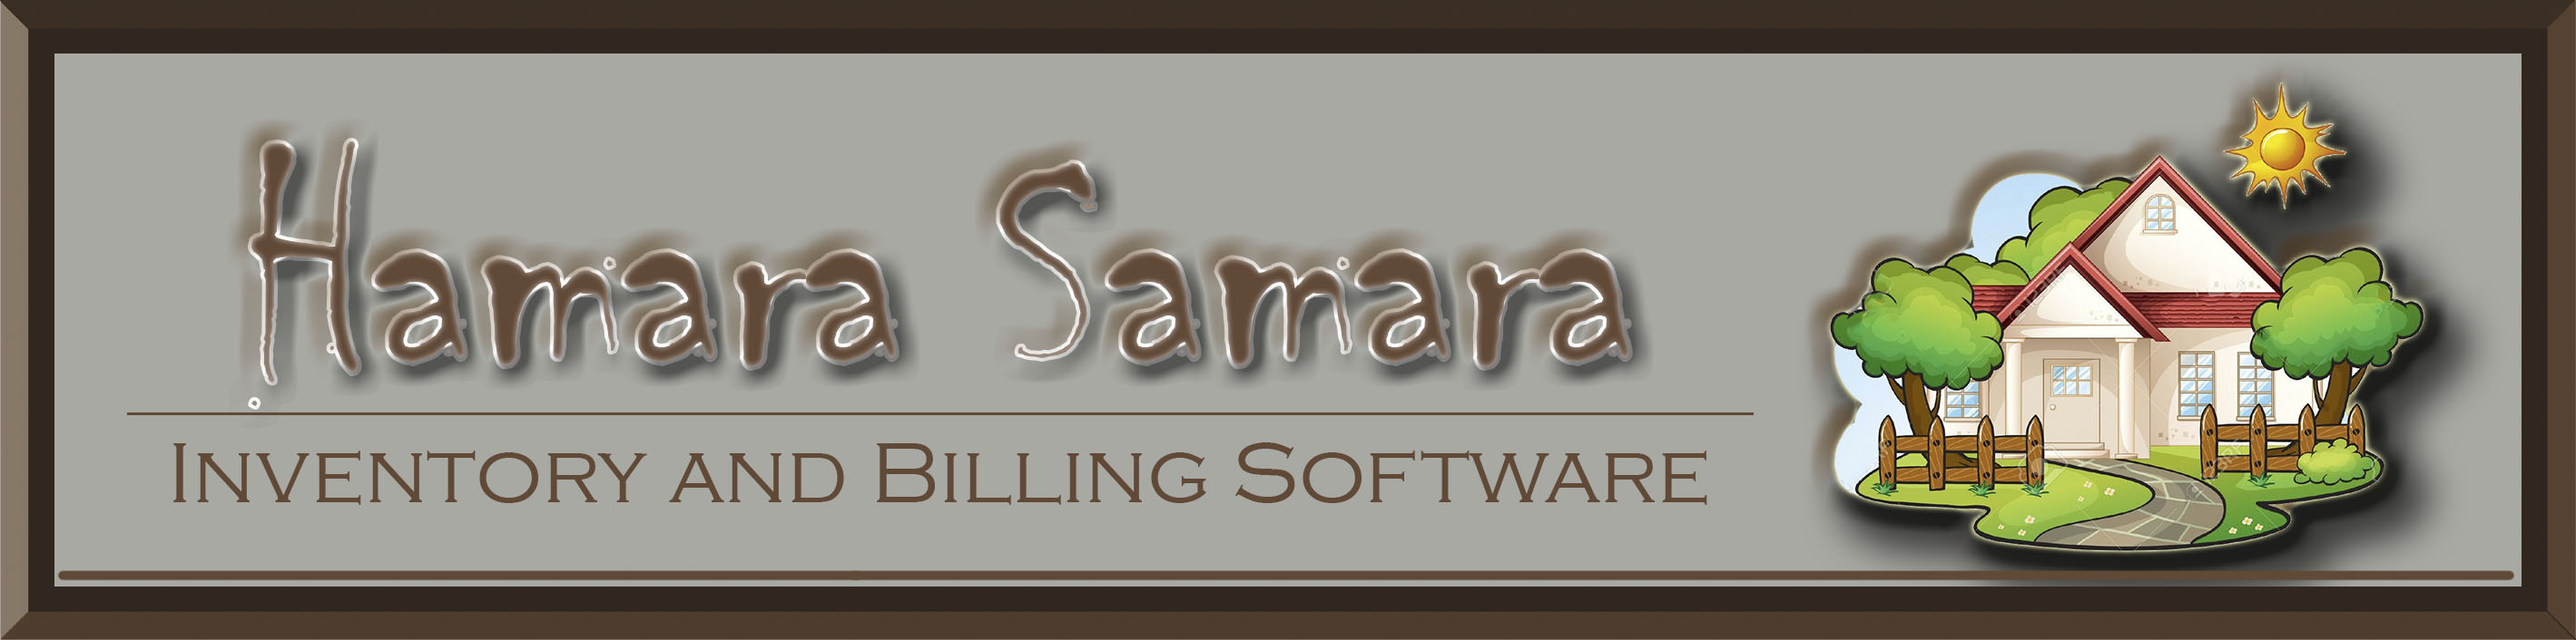
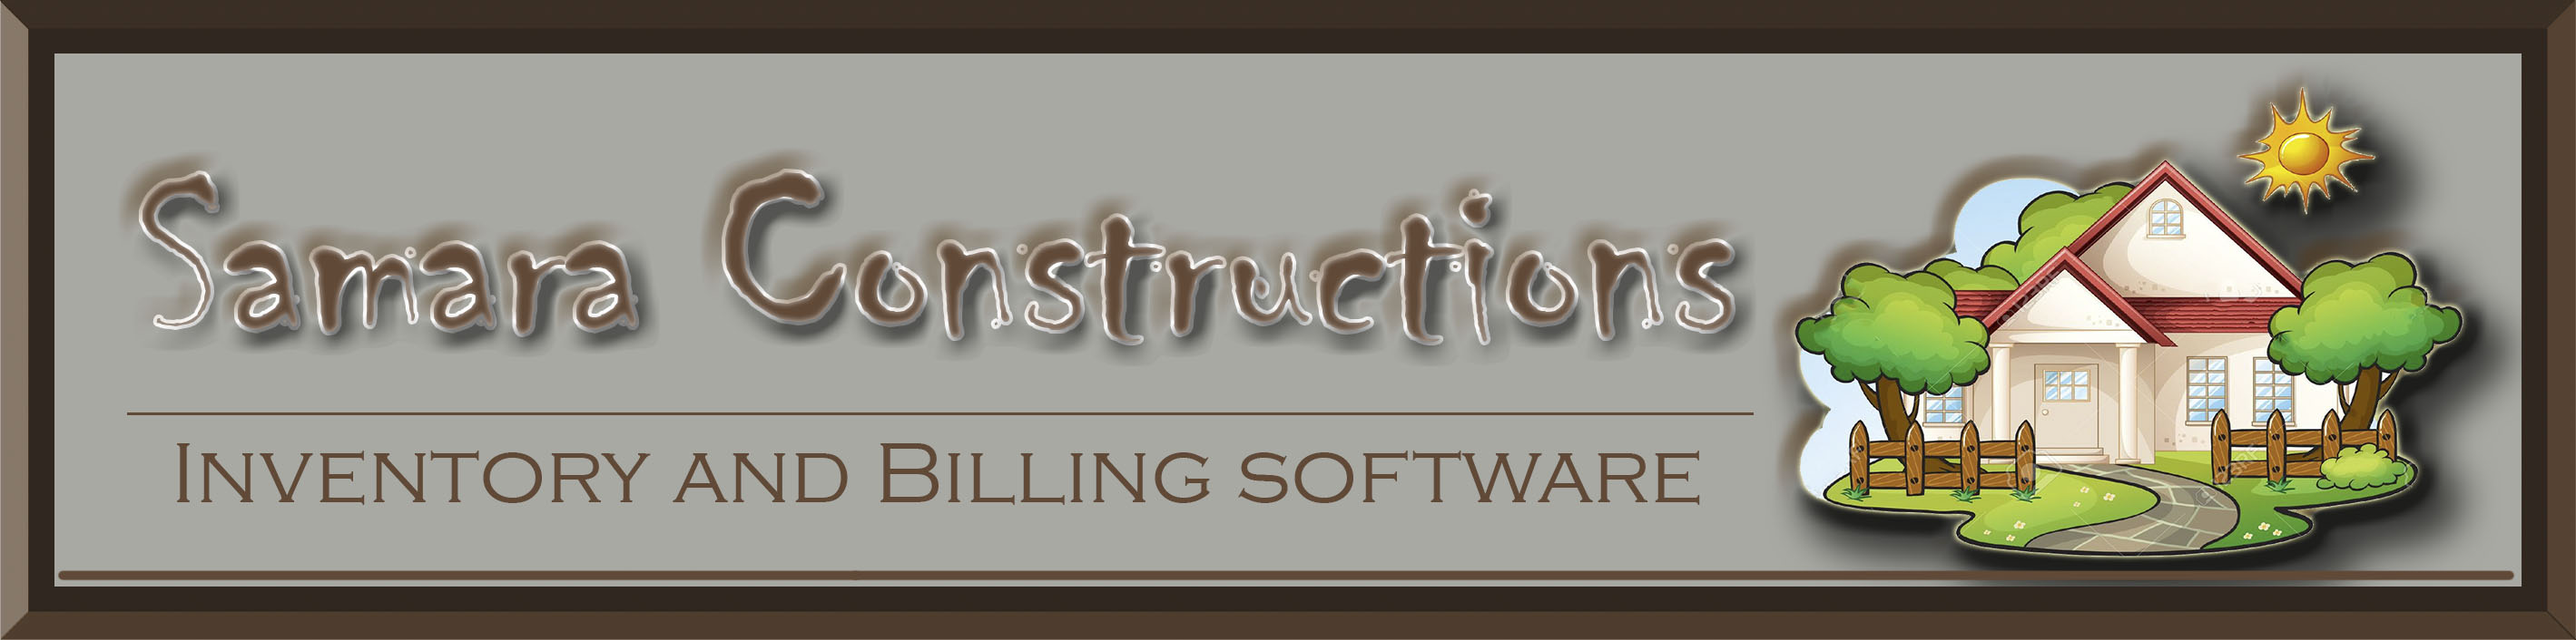
remove Hamara  frm title Add prices(cost) to Add Stock inventory screen Fixed issue in edit of ContractorBill Contractor bill: contractor name,date,  Labour type, job,qty, price: bill in cntractors name

Changed region(s): [[0.031, 0.1246, 0.9922, 0.9348], [0.062, 0.6856, 0.6512, 0.779]]

diff --git a/Samara/Controllers/SiteTransController.cs b/Samara/Controllers/SiteTransController.cs
@@ -17,10 +17,9 @@ namespace Samara.Controllers
     {
      
         public ActionResult Index(int? page ,string SiteName )
-
         {
            if(SiteName?.Length >0) page = 1;
-           return View("Index", base.BaseIndex<BossTransDet>(page, "SiteTransID,Tdate,Email,SiteName,ItemName,SupplierName,QtyAdded,Remarks", "SiteTransasction Inner Join Sites on SiteTransasction.SiteID = Sites.SiteID Inner Join Item on Item.ItemID = SiteTransasction.ItemID Inner Join Supplier on Supplier.SupplierID = SiteTransasction.SupplierID Inner Join AspNetUsers on AspNetUsers.Id = SiteTransasction.UserID  Where SiteName like '%" + SiteName + "%' and  QtyRemoved = 0"));
+           return View("Index", base.BaseIndex<BossTransDet>(page, "SiteTransID,Tdate,Email,SiteName,ItemName,Price,SupplierName,QtyAdded,Remarks", "SiteTransasction Inner Join Sites on SiteTransasction.SiteID = Sites.SiteID Inner Join Item on Item.ItemID = SiteTransasction.ItemID Inner Join Supplier on Supplier.SupplierID = SiteTransasction.SupplierID Inner Join AspNetUsers on AspNetUsers.Id = SiteTransasction.UserID  Where SiteName like '%" + SiteName + "%' and  QtyRemoved = 0"));
         }
         public ActionResult IssueIndex(int? page , string SiteName)
         {
@@ -210,6 +209,7 @@ namespace Samara.Controllers
                 ChallanImg ci = new ChallanImg()
                 {
                     ItemID = rec.ItemID.Value,
+                    Price= (decimal)rec.Price,
                     QtyAdded = (int)rec.QtyAdded,
                     QtyRemoved = (int)rec.QtyRemoved,
                     Remarks = rec.Remarks,
@@ -232,7 +232,7 @@ namespace Samara.Controllers
       
         [HttpPost]
         [ValidateAntiForgeryToken]
-        public ActionResult Manage([Bind(Include = "SiteTransID,UserID,Tdate,SiteID,SupplierID,Path,UploadedFile,ItemID,QtyAdded,Remarks,QtyRemoved")] ChallanImg siteTransaction, int OriginalQty)
+        public ActionResult Manage([Bind(Include = "SiteTransID,UserID,Tdate,SiteID,SupplierID,Path,UploadedFile,ItemID,Price,QtyAdded,Remarks,QtyRemoved")] ChallanImg siteTransaction, int OriginalQty)
       {
            
             siteTransaction.Tdate = DateTime.Now;            
@@ -290,6 +290,7 @@ namespace Samara.Controllers
                         SiteTransasction res = new SiteTransasction
                         {
                             ItemID = siteTransaction.ItemID,
+                            Price=siteTransaction.Price,
                             QtyAdded = siteTransaction.QtyAdded,
                             QtyRemoved = siteTransaction.QtyRemoved,
                             Remarks = siteTransaction.Remarks,

diff --git a/Samara/Controllers/SupplierBillController.cs b/Samara/Controllers/SupplierBillController.cs
@@ -56,7 +56,7 @@ namespace Samara.Controllers
         }
   
         [HttpPost]     
-        public ActionResult Details([Bind(Include = "SBillDetailID,SBillID,LabourID,Qty,UnitPrice,QtyRec,QtySold")] SupplierBillDetail supplierBillDetail)
+        public ActionResult Details([Bind(Include = "SBillDetailID,SBillID,LabourID,Job,Qty,UnitPrice,QtyRec,QtySold")] SupplierBillDetail supplierBillDetail)
         {
             var GetItem = db.FirstOrDefault<SupplierBillDetail>("Select * From SupplierBillDetail Where LabourID=@0 and SBillID =@0", supplierBillDetail.LabourID,supplierBillDetail.SBillID);
             if(GetItem ==  null)
@@ -89,9 +89,21 @@ namespace Samara.Controllers
         }
   
         [HttpPost]     
-        public ActionResult ManageDetails([Bind(Include = "SBillDetailID,SBillID,LabourID,Qty,UnitPrice,QtyRec,QtySold")] SupplierBillDetail supplierBillDetail)
+        public ActionResult ManageDetails([Bind(Include = "SBillDetailID,SBillID,LabourID,Job,Qty,UnitPrice,QtyRec,QtySold")] SuppBillDet supplierBillDetail)
         {
-            base.BaseSave<SupplierBillDetail>(supplierBillDetail, supplierBillDetail.SBillDetailID > 0);
+            var objToSave = new SupplierBillDetail()
+            {
+                SBillDetailID = supplierBillDetail.SBillDetailID,
+                SBillID = supplierBillDetail.SBillID,
+                LabourID = supplierBillDetail.LabourID,
+                Job = supplierBillDetail.Job,
+                Qty = supplierBillDetail.Qty,
+                UnitPrice = supplierBillDetail.UnitPrice,
+                QtyRec = supplierBillDetail.QtyRec,
+                QtySold = supplierBillDetail.QtySold
+            };
+
+            base.BaseSave<SupplierBillDetail>(objToSave, supplierBillDetail.SBillDetailID > 0);
        
             return RedirectToAction("Details",new { id = supplierBillDetail.SBillID });
         }

diff --git a/Samara/Models/Metadata.cs b/Samara/Models/Metadata.cs
@@ -105,6 +105,9 @@ namespace Samara
         [Required]
         public int ItemID;
 
+        [Range(0.0, Double.MaxValue)]
+        public decimal Price;
+
         [Required]
         public int QtyAdded;
 
@@ -127,8 +130,7 @@ namespace Samara
         [Display(Name ="Date")]
         [DisplayFormat(DataFormatString = "{0:dd-MMM-yyyy}", ApplyFormatInEditMode = true)]
         public DateTime Tdate;
-
-        [Required]
+                
         [Range(0.0, 100)]
         [Display(Name ="TDS Percentage")]
         public decimal TDSperc;
@@ -145,6 +147,10 @@ namespace Samara
         [Required]
         public int LabourID;
 
+        [Required]
+        [Display(Name ="Job Done")]
+        [StringLength(150,MinimumLength =3)]
+        public string Job;
 
         [Required]
         public int Qty;

diff --git a/Samara/Models/SuppBillDet.cs b/Samara/Models/SuppBillDet.cs
@@ -11,7 +11,8 @@ namespace Samara
         public int SBillID { get; set; }
         public int LabourID { get; set; }
         public string LabourName { get; set; }
-        public int Qty { get; set; }
+        public string Job { get; set; }
+        public decimal Qty { get; set; }
         public decimal UnitPrice { get; set; }
         public int QtyRec { get; set; }
         public int QtySold { get; set; }

diff --git a/Samara/Models/BossTransDet.cs b/Samara/Models/BossTransDet.cs
@@ -18,6 +18,7 @@ namespace Samara
         public string SupplierName { get; set; }
 
         public string ItemName { get; set; }
+        public decimal Price { get; set; }
 
         public int QtyAdded { get; set; }
 

diff --git a/Samara/Models/PartialClasses.cs b/Samara/Models/PartialClasses.cs
@@ -77,6 +77,7 @@ namespace Samara
 
         public int ItemID { get; set; }
 
+        public decimal Price { get; set; }
 
         public int SupplierID { get; set; }
 
